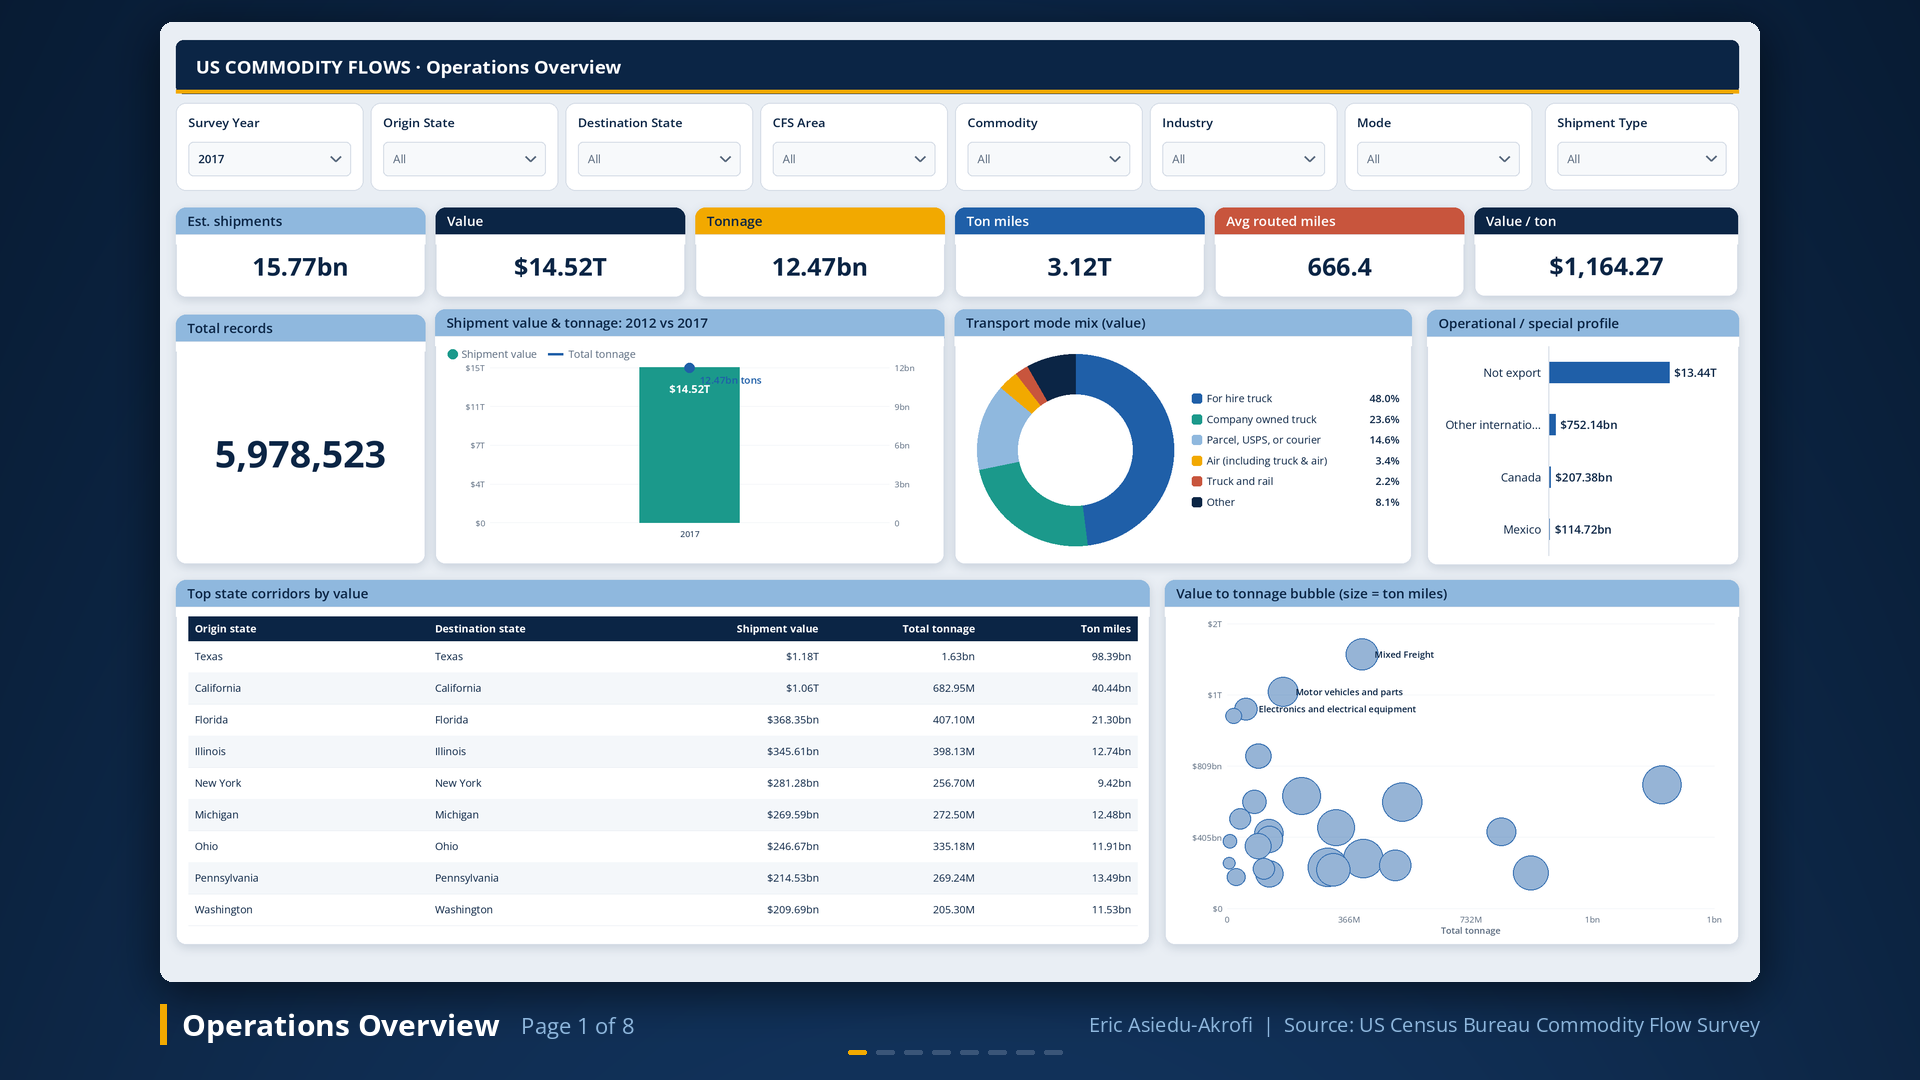
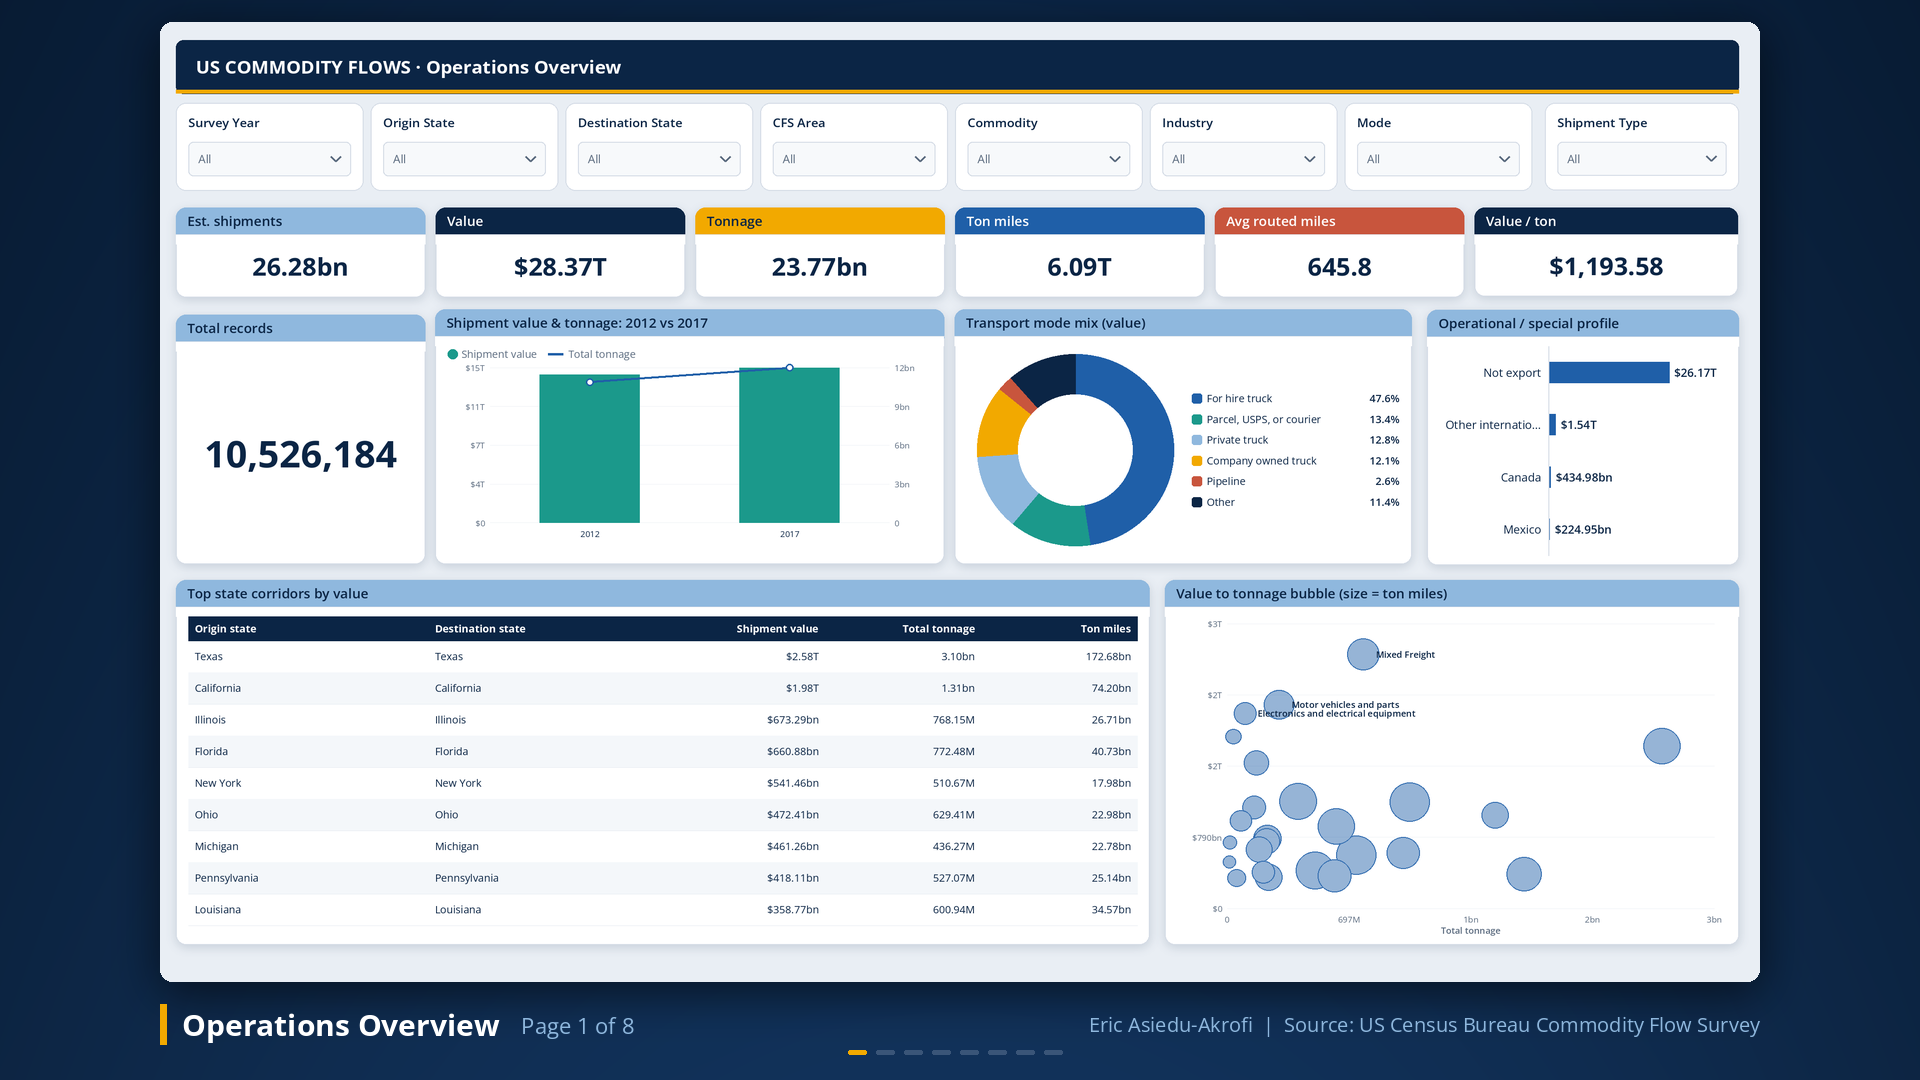
Update screenshots for full 2012 and 2017 data; fix 2012 source link

diff --git a/README.md b/README.md
@@ -45,7 +45,7 @@ The full Power BI project (PBIP with semantic model, report and data) is in this
 
 ## Source
 Official US Census Bureau Commodity Flow Survey public use microdata files:
-- 2012 CFS Public Use File: https://www.census.gov/data/datasets/2012/econ/cfs/2012-pums-files.html
+- 2012 CFS Public Use File: https://www.census.gov/data/datasets/2012/econ/cfs/historical-datasets.html
 - 2017 CFS Public Use File: https://www.census.gov/data/datasets/2017/econ/cfs/historical-datasets.html
 
 Both years are loaded in full. A SURVEY_YEAR column (2012 or 2017) was added to every row; all other columns are as published. Weighted totals: 2012 $13.85 trillion and 11.30 billion tons; 2017 $14.52 trillion and 12.47 billion tons.
